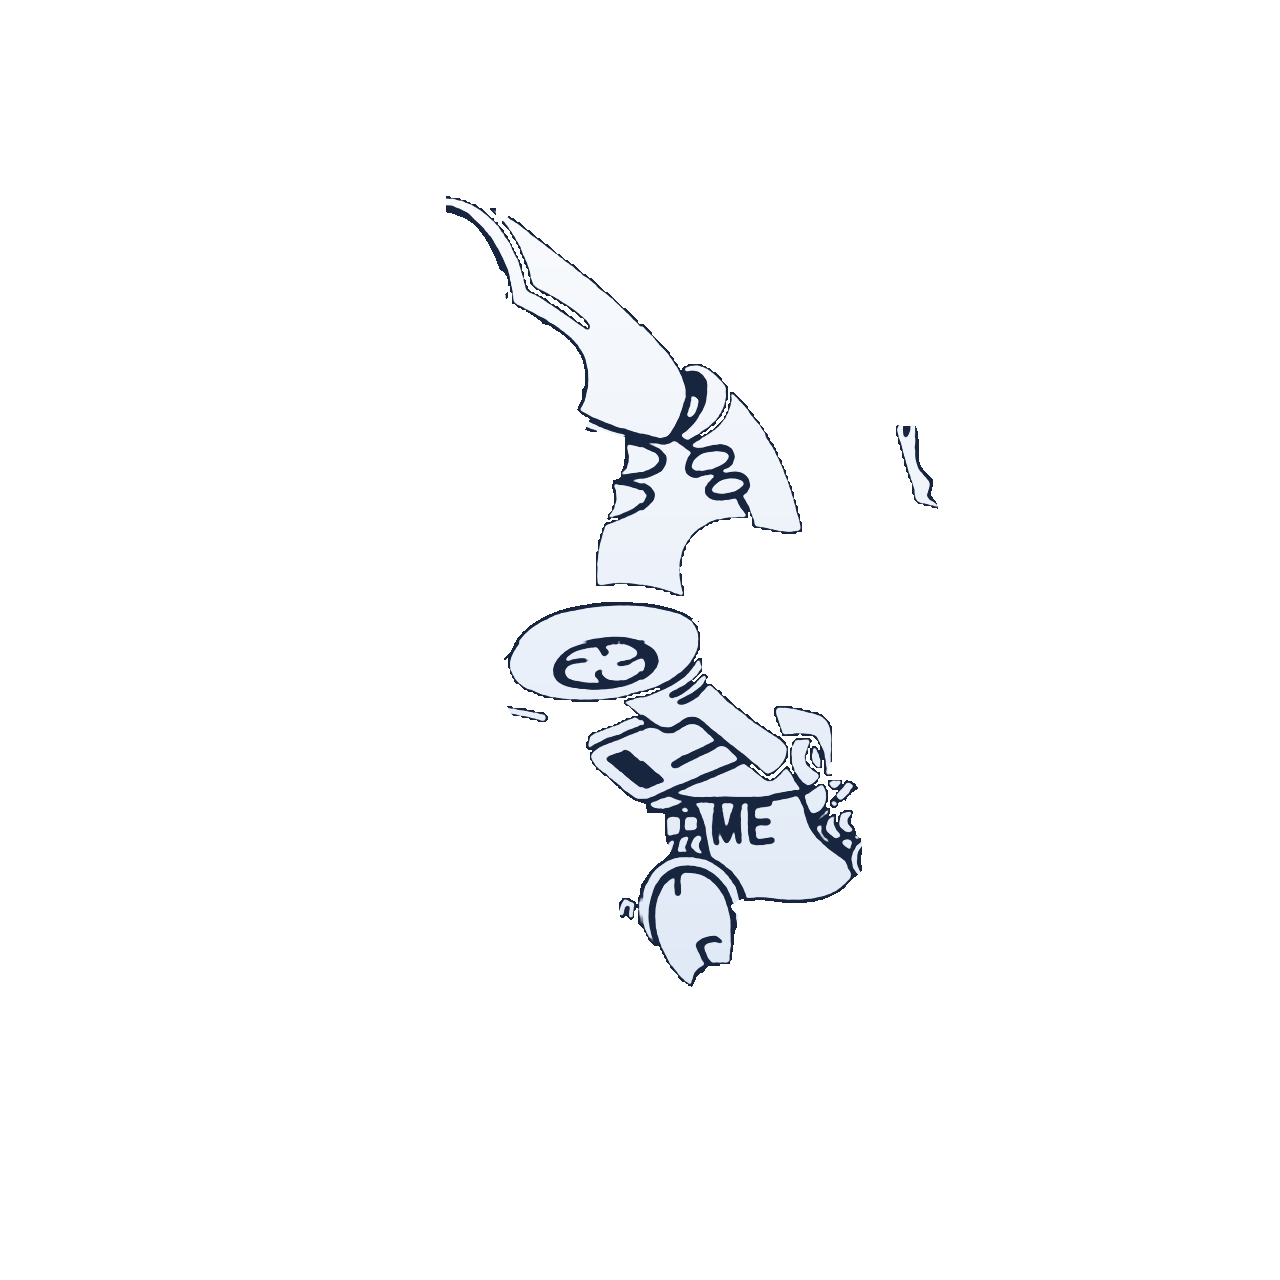
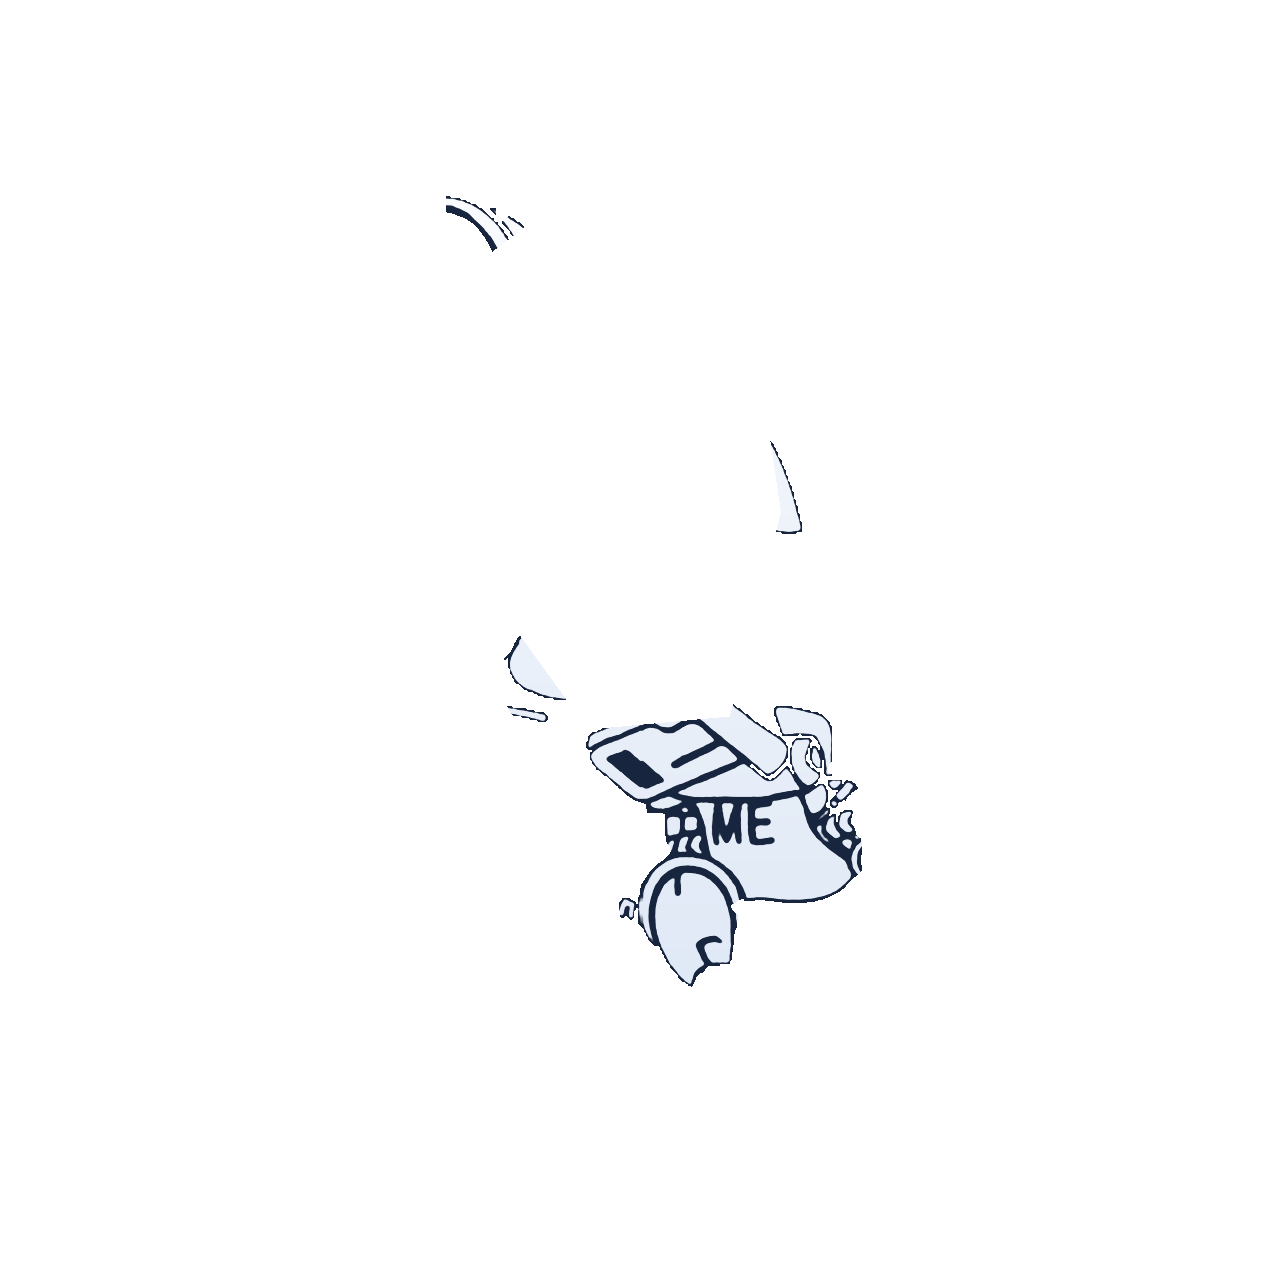
독수리 몸통 축소 — 상단 어깨 뿔+기어는 왼날개로, 오른쪽 조각은 오른날개로(사용자 지정)
'몸통은 ME 가슴만, 그 위 동그란거(기어)부터는 각 날개'. 몸통 픽셀 중 뿔·기어(58k)→왼날개,
오른쪽 어깨 조각(1.5k)→오른날개 외과적 이동. 몸통=중앙 가슴만. 재조립=원본 동일. 캐시버스트 v10.

diff --git a/design-candidates/G-research.html b/design-candidates/G-research.html
@@ -672,7 +672,7 @@ summary .i-badge::after{content:"▾";margin-left:.35rem;font-size:.85em}
       dot.style.setProperty('--cl-c',col);
       arrows.appendChild(dot);
       /* 사전에 잘라낸 조각 이미지(투명 배경). 6개가 겹쳐 독수리 완성, 하나 들어올리면 그 자리는 빈다 */
-      var part=new Image(); part.src='assets/eagle-p-'+p.png+'.png?v=9'; part.alt=''; part.className='epart';
+      var part=new Image(); part.src='assets/eagle-p-'+p.png+'.png?v=10'; part.alt=''; part.className='epart';
       part.style.setProperty('--lift',p.lift);
       part.setAttribute('data-cid',p.cid);
       stage.appendChild(part);
